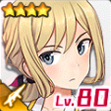
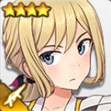
UPDATE charadata
・アナザー リタ・ヘンシェル/巧匠のアイコン更新
・アナザー 金潟すぐみ/臥薪を追加

diff --git a/alice.html b/alice.html
@@ -12,7 +12,7 @@
   <script>
 
 /* 更新情報 必要に応じて書き換えてください */
-  var version = "Ver 1.1.4 | UPDATE:2021/03/31";
+  var version = "Ver 1.1.4 | UPDATE:2021/04/15";
 
 /*
   jsonファイルを外部に設置すると単にHTMLファイルを開いたときに動作しなくなるので当面はHTMLファイル内に
@@ -932,6 +932,20 @@
       "attr": "1",
       "link": "https://wikiwiki.jp/alicegear/%E9%87%91%E6%BD%9F%E3%81%99%E3%81%90%E3%81%BF",
       "category": ""
+    },
+    {
+      "id": "32",
+      "type": "4",
+      "src": "another-sugumi.png",
+      "name": "金潟 すぐみ / 臥薪",
+      "equip1": "2",
+      "equip2": "3",
+      "equip3": "2",
+      "equip4": "2",
+      "sp": "235?",
+      "attr": "1",
+      "link": "https://wikiwiki.jp/alicegear/%E9%87%91%E6%BD%9F%E3%81%99%E3%81%90%E3%81%BF%E8%87%A5%E8%96%AA",
+      "category": "10"
     },
     {
       "id": "33",
